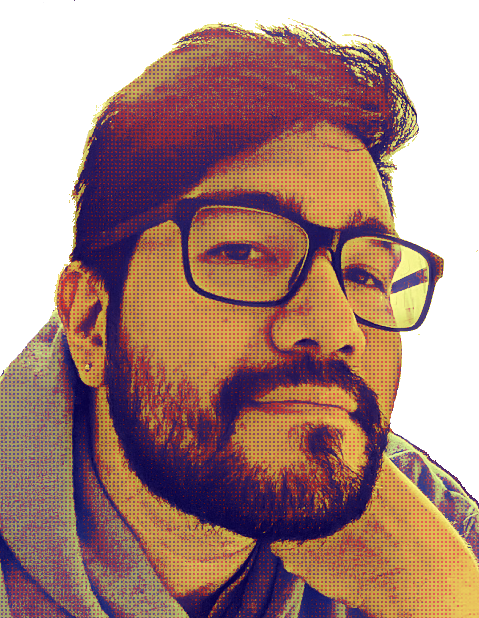
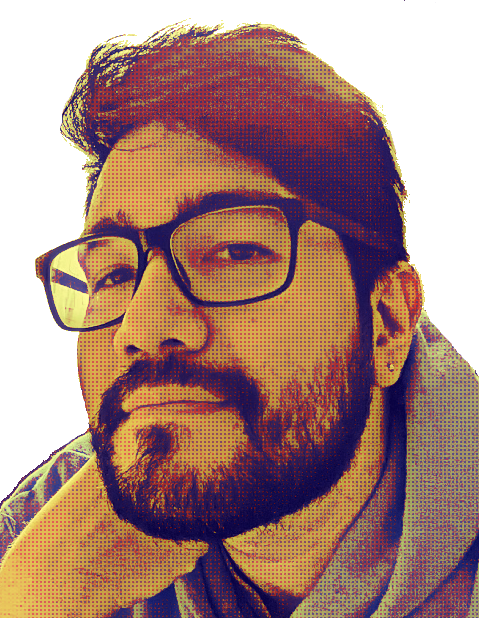
improved props passing to projects; added hover-over css to navbar and projects components

diff --git a/src/projectData.tsx b/src/projectData.tsx
@@ -1,17 +1,20 @@
 export default [
     {
+        id: 0,
+        title: "AirBnb Clone",
+        desc: "This was an AirBnb clone project as part of the Scrimba course on React. It taught a lot of useful features, but especially the passing and mapping of props.",
+        img: "proj-airbnb.png"
+    },
+    {
         id: 1,
-        title: "Project 1",
-        desc: "Description of Project 1."
+        title: "AirBnb Clone",
+        desc: "This was an AirBnb clone project as part of the Scrimba course on React. It taught a lot of useful features, but especially the passing and mapping of props.",
+        img: "proj-airbnb.png"
     },
     {
         id: 2,
-        title: "Project 2",
-        desc: "Description of Project 2."
-    },
-    {
-        id: 3,
-        title: "Project 3",
-        desc: "Description of Project 3."
+        title: "AirBnb Clone",
+        desc: "This was an AirBnb clone project as part of the Scrimba course on React. It taught a lot of useful features, but especially the passing and mapping of props.",
+        img: "proj-airbnb.png"
     }
 ]

diff --git a/src/components/Hero.tsx b/src/components/Hero.tsx
@@ -23,10 +23,9 @@ export default function Hero() {
       }, [count]);
 
     return (
-        <section>
+        <section className={css.hero}>
             <div className={css.head}>
-                <img className={css.portrait} src={daniel} />
-                <div>
+                <div className={css.greeting}>
                     <h1 className={css.intro}>Hi! I'm <span className={css.highlight}>Daniel</span> 👋</h1>
                         <div className={css.typer}>
                             <span className={css.spaced}>and I'm a </span>{count ? (<Typist onTypingDone={() => setCount(0)}>
@@ -43,6 +42,7 @@ export default function Hero() {
                         </div>
 
                 </div>
+                <img className={css.portrait} src={daniel} />
             </div>
             <p className={css.description}>I'm a full-stack web developer who loves to craft beautiful and intuitive web solutions.</p>
 

diff --git a/src/components/Navbar.tsx b/src/components/Navbar.tsx
@@ -1,5 +1,5 @@
 import css from './Navbar.module.css'
-import {PiMoonStarsBold} from 'react-icons/pi'
+// import {PiMoonStarsBold} from 'react-icons/pi'
 
 export default function Navbar() {
     const setClass = (classes: string[]) => {
@@ -10,13 +10,13 @@ export default function Navbar() {
         <nav>
             <h3 className={setClass(["red", "big"])}>daniel-aldridge.dev <span className={css.smaller}>/</span></h3>
             <div className={setClass(["links"])}>
-                <p>About</p>
-                <p>Projects</p>
-                <p>Blog</p>
-                <p>Contact</p>
-                <PiMoonStarsBold
+                <a>About</a>
+                <a>Projects</a>
+                <a>Blog</a>
+                <a>Contact</a>
+                {/* <PiMoonStarsBold
                     size="2rem"
-                />
+                /> */}
             </div>
         </nav>
     )

diff --git a/src/components/Navbar.module.css b/src/components/Navbar.module.css
@@ -2,6 +2,7 @@ nav {
     display: flex;
     flex-direction: row;
     justify-content: space-between;
+    align-items: center;
 }
 
 .big {
@@ -20,3 +21,25 @@ nav {
     font-size: 20px;
 }
 
+.links > a {
+    text-decoration: none;
+    font-weight: 700;
+    position: relative;
+}
+
+.links > a::before {
+content: '';
+background-color: hsla(196, 61%, 58%, .75);
+position: absolute;
+left: 0;
+bottom: 3px;
+width: 100%;
+height: 8px;
+z-index: -1;
+transition: all .3s ease-in-out;
+}
+
+.links > a:hover::before {
+    bottom: 0;
+    height: 100%;
+  }

diff --git a/src/components/Hero.module.css b/src/components/Hero.module.css
@@ -1,8 +1,12 @@
 .intro {
-    font-size: 58px;
+    font-size: 68px;
     font-family: 'Kalam', cursive;
     margin-top: 35px;
     margin-bottom: 30px;
+}
+
+.greeting {
+    min-width: 650px;
 }
 
 .subtitle {
@@ -17,7 +21,7 @@
 
 .spaced {
     margin-right: 3px;
-    margin-left: 25px;
+    margin-left: 50px;
 }
 
 .head {
@@ -29,7 +33,7 @@
 
 .portrait {
     max-width: 300px;
-    border-radius: 16px;
+    border-radius: 46%;
     margin-right: 30px;
 }
 

diff --git a/src/components/Card.tsx b/src/components/Card.tsx
@@ -4,7 +4,7 @@ export default function Card(props) {
     return (
         <>
             <div className={css.main}>
-                {/* img */}
+                <img className={css.preview} src={"../../public/images/" + props.img} height="300px" />
                 <div className="info">
                     <div className="info--top">
                         <span className={css.title}>{props.title}</span>

diff --git a/src/components/Card.module.css b/src/components/Card.module.css
@@ -1,7 +1,19 @@
 .main {
-    margin-bottom: 20px;
+    display: flex;
+    flex-direction: row;
+    margin-bottom: 40px;
 }
 
 .title {
-    color: firebrick;
+    color: #FF6000;
 }
+
+.preview {
+    margin-right: 30px;
+    border: 5px solid black;
+}
+
+.preview:hover {
+    
+    box-shadow: #FF6000 10px 10px;
+  }

diff --git a/src/components/Projects.tsx b/src/components/Projects.tsx
@@ -8,6 +8,7 @@ export default function Projects() {
                 key={data.id}
                 title={data.title}
                 desc={data.desc}
+                img={data.img}
                 />
     })
 

diff --git a/src/App.css b/src/App.css
@@ -1,6 +1,7 @@
 html {
-    background-color: #E3F4F4;
     font-family: 'Poppins', sans-serif;
+    background-color: #374259;
+    color:antiquewhite;
 }
 
 .main {
